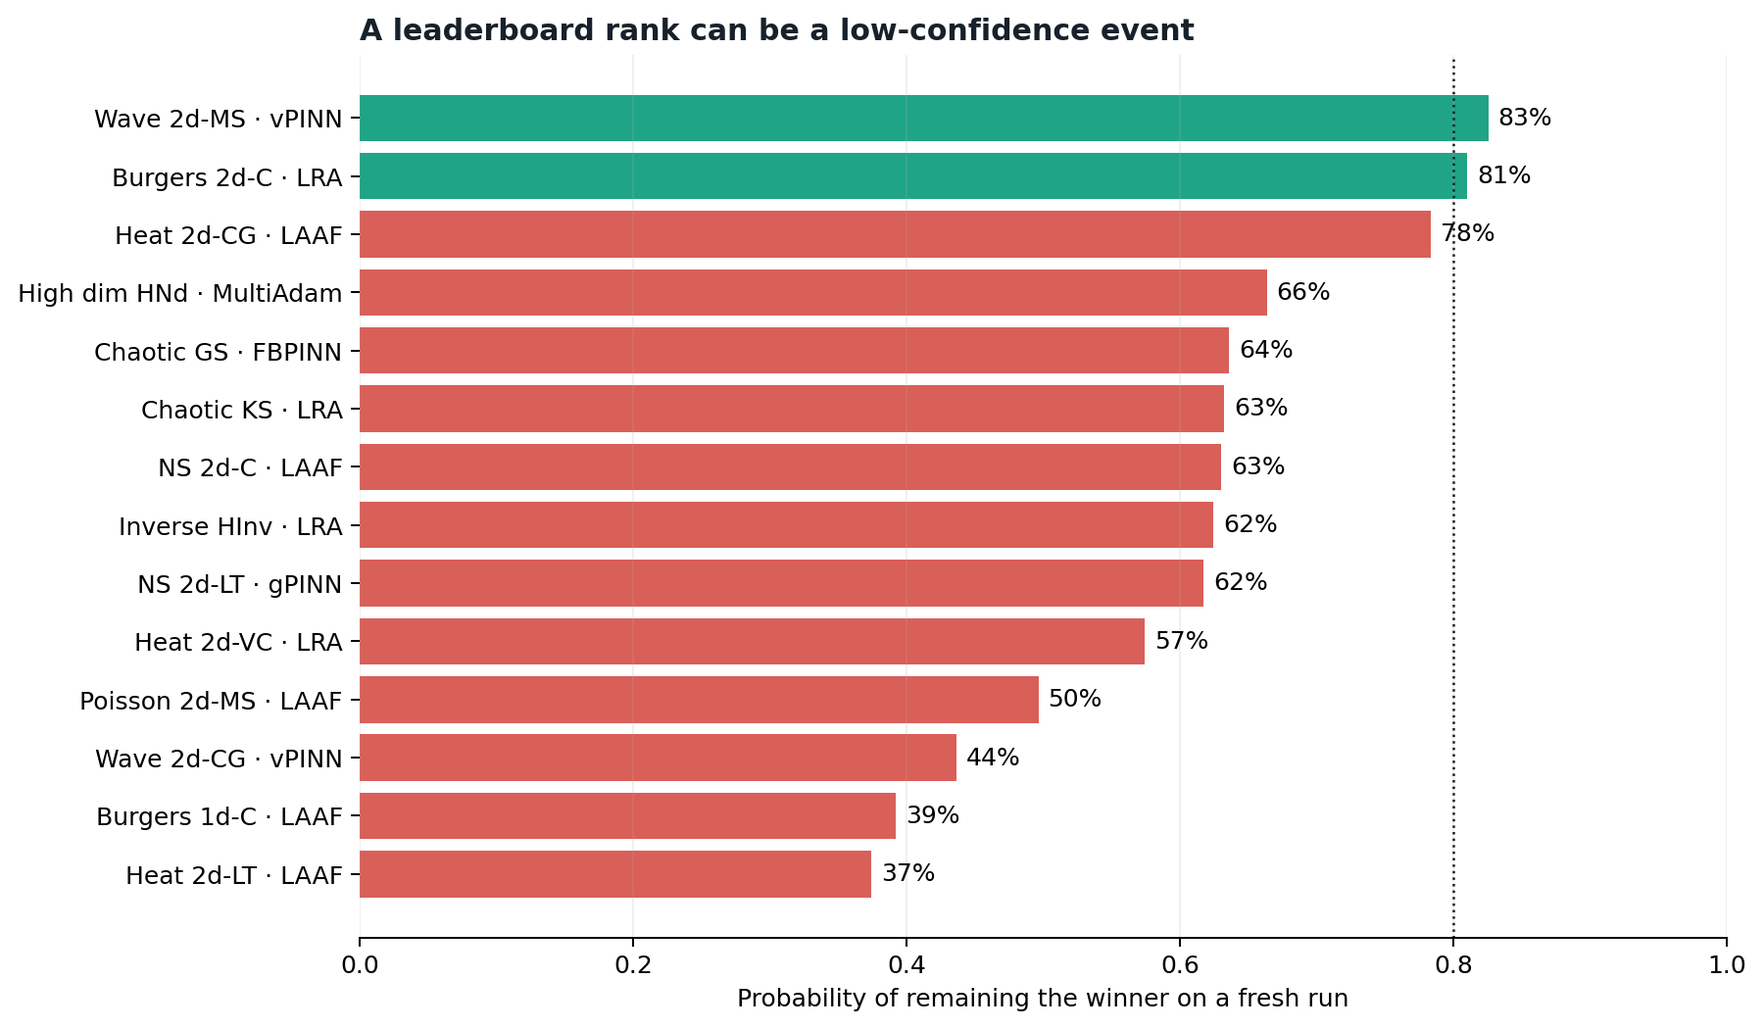
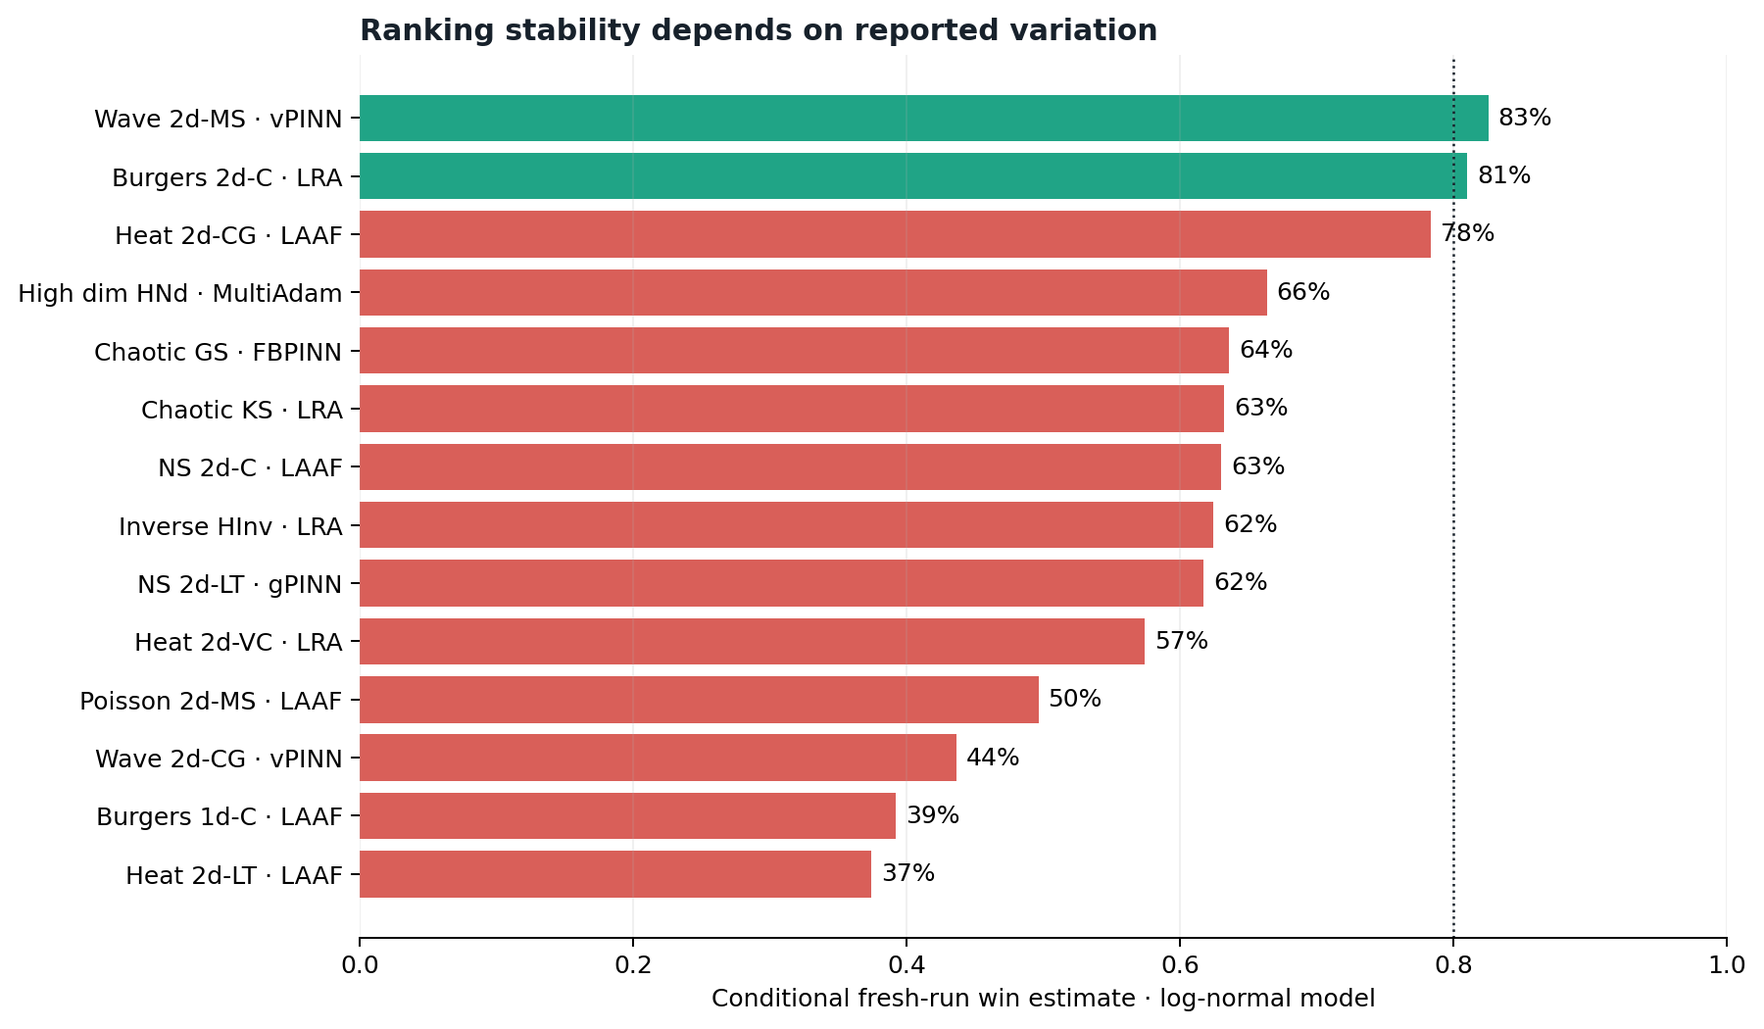
Strengthen statistical claims and robustness checks

Changed region(s): [[0.2178, 0.0, 0.6844, 0.061], [0.4044, 0.9448, 0.7778, 1.0]]

diff --git a/src/pinn_audit/report.py b/src/pinn_audit/report.py
@@ -9,6 +9,7 @@ import pandas as pd
 from .analysis import (
     collocation_switch_summary,
     compare_sources,
+    distribution_sensitivity,
     rank_switch_summary,
     rerun_winner_probabilities,
 )
@@ -18,6 +19,7 @@ def build_report(data: pd.DataFrame, output: Path, collocation: pd.DataFrame | N
     consistency = compare_sources(data)
     conflicts = consistency[~consistency["consistent"]]
     stability = rerun_winner_probabilities(data)
+    assumptions = distribution_sensitivity(data)
     top = stability.groupby(["family", "case"], sort=False).head(1)
     fragile = top[top["winner_probability"] < 0.80]
     switches = rank_switch_summary(data)
@@ -43,25 +45,29 @@ def build_report(data: pd.DataFrame, output: Path, collocation: pd.DataFrame | N
         "## Executive finding",
         "",
         headline,
-        "This discrepancy reverses the HInv winner and directly changes the paper's highlighted inverse-problem conclusion. It is a reporting inconsistency, not evidence that either number is the correct experimental result.",
+        "This discrepancy reverses the HInv winner for that table and changes which result supports the associated comparison. It is a reporting inconsistency, not evidence that either number is the correct experimental result.",
         "",
         "## Audit counts",
         "",
         f"* {len(consistency)} shared L2RE claims compared across main and appendix tables",
         f"* {len(conflicts)} numerical source conflicts above exact transcription tolerance",
-        f"* {len(fragile)} of {len(top)} cases where the most likely fresh-run winner remains below 80% probability",
+        f"* {len(fragile)} of {len(top)} cases where the conditional log-normal estimate for the most likely fresh-run winner remains below the diagnostic 80% threshold",
         f"* {len(switched)} of {len(switches)} cases where the winning method changes across L2RE, L1RE, and maximum error",
         f"* {int(budget_switches['budget_sensitive'].sum()) if not budget_switches.empty else 0} of {len(budget_switches)} collocation ablations where the winning method changes with sampling budget",
         "",
         "## Interpretation",
         "",
-        "A leaderboard winner is not automatically a stable property of a method. The audit separates three failure modes: source inconsistency, run-to-run instability, and metric dependence. These modes support different conclusions and should not be collapsed into one accuracy number.",
+        "A leaderboard winner is not automatically a stable property of a method. The audit separates source inconsistency, conditional rerun stability, and metric dependence. These diagnostics support different conclusions and should not be collapsed into one accuracy number.",
         "",
-        "The rerun analysis uses moment-matched log-normal distributions derived from the reported three-run mean and standard deviation. It is a sensitivity analysis for a fresh run, not a posterior probability and not a substitute for raw seeds.",
+        "The rerun analysis uses moment-matched distributions derived from the reported three-run mean and standard deviation. Its probabilities are conditional simulation estimates, not measured frequencies, posterior probabilities, or substitutes for raw seeds. Independence between methods is assumed because run-level pairing is unavailable.",
+        "",
+        "Across log-normal, nonnegative-normal, and gamma models, the identity of the most likely winner is unchanged in "
+        f"{int(assumptions['winner_consistent_across_models'].sum())} of {len(assumptions)} cases. The estimated winning probability can nevertheless move by as much as "
+        f"{assumptions['probability_range'].max():.1%}, so probability magnitudes should not be read as distribution-free facts.",
         "",
         "## Most fragile fresh-run leaders",
         "",
-        "| PDE case | Most probable method | Fresh-run win probability | Rank entropy |",
+        "| PDE case | Most probable method | Conditional log-normal estimate | Rank entropy |",
         "| --- | --- | ---: | ---: |",
     ]
     for row in top.sort_values("winner_probability").head(8).itertuples():
@@ -70,6 +76,11 @@ def build_report(data: pd.DataFrame, output: Path, collocation: pd.DataFrame | N
         )
     lines.extend(
         [
+            "",
+            "## Distribution-model sensitivity",
+            "",
+        "The full comparison is recorded in `distribution_sensitivity.csv`. These alternative models are robustness checks, not candidates for the true run distribution.",
+        "Maximum-error results are unavailable for some methods. Winner comparisons use the methods reported for each metric and should therefore be read together with coverage differences.",
             "",
             "## Metric-sensitive cases",
             "",

diff --git a/src/pinn_audit/analysis.py b/src/pinn_audit/analysis.py
@@ -76,6 +76,64 @@ def rerun_winner_probabilities(
     )
 
 
+def distribution_sensitivity(
+    data: pd.DataFrame,
+    metric: str = "L2RE",
+    draws: int = 100_000,
+    seed: int = 2026,
+) -> pd.DataFrame:
+    """Compare conditional fresh-run estimates under three moment-matched models.
+
+    The alternatives do not identify the true run distribution. They expose how
+    much the reported probability depends on an untestable distribution choice
+    when only three-run summaries are available.
+    """
+    rng = np.random.default_rng(seed)
+    appendix = data[
+        data["source"].eq("appendix_table")
+        & data["metric"].eq(metric)
+        & data["mean"].gt(0)
+        & data["std"].notna()
+    ]
+    records: list[dict[str, object]] = []
+    for (family, case), group in appendix.groupby(["family", "case"], sort=False):
+        means = group["mean"].to_numpy(float)
+        stds = np.maximum(group["std"].to_numpy(float), means * 1e-12)
+        methods = group["method"].to_numpy(str)
+
+        sigma2 = np.log1p(np.square(stds / means))
+        lognormal = rng.lognormal(
+            (np.log(means) - sigma2 / 2)[:, None],
+            np.sqrt(sigma2)[:, None],
+            size=(len(group), draws),
+        )
+        normal = np.maximum(
+            rng.normal(means[:, None], stds[:, None], size=(len(group), draws)), 0
+        )
+        shapes = np.square(means / stds)
+        scales = np.square(stds) / means
+        gamma = rng.gamma(shapes[:, None], scales[:, None], size=(len(group), draws))
+
+        row: dict[str, object] = {"family": family, "case": case, "metric": metric}
+        probabilities: list[float] = []
+        winners: list[str] = []
+        for label, samples in (
+            ("lognormal", lognormal),
+            ("nonnegative_normal", normal),
+            ("gamma", gamma),
+        ):
+            counts = np.bincount(samples.argmin(axis=0), minlength=len(group)) / draws
+            index = int(counts.argmax())
+            row[f"{label}_winner"] = methods[index]
+            row[f"{label}_probability"] = float(counts[index])
+            winners.append(methods[index])
+            probabilities.append(float(counts[index]))
+        row["winner_consistent_across_models"] = len(set(winners)) == 1
+        row["probability_range"] = max(probabilities) - min(probabilities)
+        records.append(row)
+    return pd.DataFrame.from_records(records).sort_values(["family", "case"])
+
+
 def metric_winners(data: pd.DataFrame) -> pd.DataFrame:
     """Return the reported winner under each available error definition."""
     appendix = data[data["source"].eq("appendix_table")].dropna(subset=["mean"])

diff --git a/tests/test_analysis.py b/tests/test_analysis.py
@@ -1,6 +1,11 @@
 import pandas as pd
 
-from pinn_audit.analysis import compare_sources, rank_switch_summary, rerun_winner_probabilities
+from pinn_audit.analysis import (
+    compare_sources,
+    distribution_sensitivity,
+    rank_switch_summary,
+    rerun_winner_probabilities,
+)
 
 
 def test_source_conflict_is_detected():
@@ -41,3 +46,26 @@ def test_metric_switch_is_detected():
     assert bool(result.iloc[0]["metric_sensitive"])
     assert result.iloc[0]["distinct_winners"] == 2
 
+
+def test_distribution_sensitivity_exposes_model_dependence():
+    data = pd.DataFrame(
+        [
+            {"source": "appendix_table", "metric": "L2RE", "family": "P", "case": "C", "method": "A", "mean": 0.10, "std": 0.04},
+            {"source": "appendix_table", "metric": "L2RE", "family": "P", "case": "C", "method": "B", "mean": 0.13, "std": 0.04},
+        ]
+    )
+    result = distribution_sensitivity(data, draws=30_000)
+    assert result.iloc[0]["winner_consistent_across_models"]
+    assert result.iloc[0]["probability_range"] > 0
+
+
+def test_missing_results_do_not_enter_fresh_run_simulation():
+    data = pd.DataFrame(
+        [
+            {"source": "appendix_table", "metric": "L2RE", "family": "P", "case": "C", "method": "A", "mean": 0.10, "std": 0.01},
+            {"source": "appendix_table", "metric": "L2RE", "family": "P", "case": "C", "method": "B", "mean": None, "std": None},
+        ]
+    )
+    result = rerun_winner_probabilities(data, draws=1_000)
+    assert list(result["method"]) == ["A"]
+    assert result.iloc[0]["winner_probability"] == 1.0

diff --git a/tests/test_case_study.py b/tests/test_case_study.py
@@ -1,0 +1,36 @@
+from pathlib import Path
+
+import pandas as pd
+
+from pinn_audit.analysis import (
+    collocation_switch_summary,
+    compare_sources,
+    distribution_sensitivity,
+    rank_switch_summary,
+    rerun_winner_probabilities,
+)
+
+
+ROOT = Path(__file__).parents[1]
+
+
+def test_versioned_case_study_counts_and_headline_conflict():
+    data = pd.read_csv(ROOT / "data" / "pinnacle_published_metrics.csv")
+    collocation = pd.read_csv(ROOT / "data" / "pinnacle_collocation_ablation.csv")
+    consistency = compare_sources(data)
+    conflicts = consistency[~consistency["consistent"]]
+    stability = rerun_winner_probabilities(data, draws=20_000)
+    leaders = stability.groupby(["family", "case"], sort=False).head(1)
+    switches = rank_switch_summary(data)
+    budgets = collocation_switch_summary(collocation)
+    assumptions = distribution_sensitivity(data, draws=20_000)
+
+    assert len(consistency) == 235
+    assert len(conflicts) == 2
+    hinv = conflicts[(conflicts["case"] == "HInv") & (conflicts["method"] == "vPINN")].iloc[0]
+    assert hinv["main_table"] == 0.0119
+    assert hinv["appendix_table"] == 0.456
+    assert (leaders["winner_probability"] < 0.80).sum() == 12
+    assert switches["metric_sensitive"].sum() == 13
+    assert budgets["budget_sensitive"].sum() == 4
+    assert assumptions["winner_consistent_across_models"].all()

diff --git a/src/pinn_audit/cli.py b/src/pinn_audit/cli.py
@@ -10,6 +10,7 @@ import pandas as pd
 from .analysis import (
     collocation_switch_summary,
     compare_sources,
+    distribution_sensitivity,
     rank_switch_summary,
     rerun_winner_probabilities,
 )
@@ -44,6 +45,9 @@ def main() -> None:
     args.output.mkdir(parents=True, exist_ok=True)
     compare_sources(data).to_csv(args.output / "source_consistency.csv", index=False)
     rerun_winner_probabilities(data).to_csv(args.output / "winner_probabilities.csv", index=False)
+    distribution_sensitivity(data).to_csv(
+        args.output / "distribution_sensitivity.csv", index=False
+    )
     rank_switch_summary(data).to_csv(args.output / "metric_sensitivity.csv", index=False)
     collocation_switch_summary(collocation).to_csv(
         args.output / "collocation_sensitivity.csv", index=False

diff --git a/src/pinn_audit/plots.py b/src/pinn_audit/plots.py
@@ -52,8 +52,8 @@ def plot_winner_stability(data: pd.DataFrame, path: Path) -> None:
     bars = ax.barh(labels, leaders["winner_probability"], color=colors)
     ax.axvline(0.8, color=INK, lw=1, ls=":")
     ax.set_xlim(0, 1)
-    ax.set_xlabel("Probability of remaining the winner on a fresh run")
-    ax.set_title("A leaderboard rank can be a low-confidence event", loc="left", weight="bold", color=INK)
+    ax.set_xlabel("Conditional fresh-run win estimate · log-normal model")
+    ax.set_title("Ranking stability depends on reported variation", loc="left", weight="bold", color=INK)
     ax.bar_label(bars, labels=[f"{p:.0%}" for p in leaders["winner_probability"]], padding=4)
     ax.spines[["top", "right", "left"]].set_visible(False)
     ax.grid(axis="x", alpha=0.18)

diff --git a/docs/METHODOLOGY.md b/docs/METHODOLOGY.md
@@ -16,24 +16,24 @@ Values describing the same method, PDE case, and metric are joined across the ma
 
 ## Layer 2: rerun stability
 
-PINNacle reports means and standard deviations over three runs. Because errors are positive, the audit constructs a moment-matched log-normal distribution for each method and estimates the probability that it would rank first on a fresh run.
+PINNacle reports means and standard deviations over three runs. Because errors are positive, the primary audit constructs a moment-matched log-normal distribution for each method and simulates the probability that it would rank first on a fresh run. It assumes independence between methods because paired run-level results are unavailable.
 
-This quantity is a predictive sensitivity analysis. It is not a Bayesian posterior, and it cannot recover the raw seed distribution. The approximation is deliberately isolated so it can be replaced when per-seed outputs become available.
+This is a conditional predictive sensitivity analysis. It is not a measured frequency, a Bayesian posterior, or a confidence interval, and it cannot recover the raw seed distribution from three summary values. To expose model dependence, the audit repeats the calculation with moment-matched gamma and nonnegative-normal alternatives. Agreement in winner identity is evidence of robustness to these three choices only. The probability range records sensitivity of the magnitude.
 
 ## Layer 3: metric dependence
 
-The reported winner is computed independently under L2 relative error, L1 relative error, and maximum pointwise error. A metric-sensitive case is one in which these definitions select different methods.
+The reported winner is computed independently under L2 relative error, L1 relative error, and maximum pointwise error. A metric-sensitive case is one in which these definitions select different methods. This is not classified as an error: the metrics encode different scientific priorities, and maximum-error coverage is not identical for every method.
 
 ## Layer 4: collocation-budget dependence
 
-The published ablation comparing PINN and PINN-LRA is re-ranked at 512, 2048, 8192, and 32768 collocation points. This tests whether a method advantage survives a change in how densely the physical domain is constrained.
+The published ablation comparing PINN and PINN-LRA is re-ranked at 512, 2048, 8192, and 32768 collocation points. This tests whether a method advantage survives a change in how densely the physical domain is constrained. A switch is evidence of budget dependence, not evidence that either method fails.
 
 ## Decision rule
 
 A benchmark claim is flagged when at least one of the following holds:
 
 1. The same reported quantity conflicts across paper sections.
-2. The most probable fresh-run winner has probability below 0.80.
+2. The most probable fresh-run winner has conditional log-normal probability below the diagnostic threshold of 0.80.
 3. The winning method changes under another reported error definition.
 4. The winning method changes with collocation budget.
 
@@ -41,4 +41,4 @@ The thresholds are diagnostic, not universal laws. They make review decisions ex
 
 ## Limits
 
-This audit uses published summary statistics and versioned paper source. It cannot identify the correct value behind a reporting conflict, establish causality, or replace reproduction from raw predictions and per-seed outputs.
+This audit uses published summary statistics and versioned paper source. It cannot identify the correct value behind a reporting conflict, establish causality, estimate correlations between methods, or replace reproduction from raw predictions and per-seed outputs. Its 0.80 threshold is a transparent review convention rather than a universal scientific standard.

diff --git a/results/AUDIT_REPORT.md b/results/AUDIT_REPORT.md
@@ -3,25 +3,27 @@
 ## Executive finding
 
 The reported HInv vPINN L2RE is 0.0119 in the main table and 0.456 in the detailed appendix, a 38.3× difference.
-This discrepancy reverses the HInv winner and directly changes the paper's highlighted inverse-problem conclusion. It is a reporting inconsistency, not evidence that either number is the correct experimental result.
+This discrepancy reverses the HInv winner for that table and changes which result supports the associated comparison. It is a reporting inconsistency, not evidence that either number is the correct experimental result.
 
 ## Audit counts
 
 * 235 shared L2RE claims compared across main and appendix tables
 * 2 numerical source conflicts above exact transcription tolerance
-* 12 of 22 cases where the most likely fresh-run winner remains below 80% probability
+* 12 of 22 cases where the conditional log-normal estimate for the most likely fresh-run winner remains below the diagnostic 80% threshold
 * 13 of 22 cases where the winning method changes across L2RE, L1RE, and maximum error
 * 4 of 4 collocation ablations where the winning method changes with sampling budget
 
 ## Interpretation
 
-A leaderboard winner is not automatically a stable property of a method. The audit separates three failure modes: source inconsistency, run-to-run instability, and metric dependence. These modes support different conclusions and should not be collapsed into one accuracy number.
+A leaderboard winner is not automatically a stable property of a method. The audit separates source inconsistency, conditional rerun stability, and metric dependence. These diagnostics support different conclusions and should not be collapsed into one accuracy number.
 
-The rerun analysis uses moment-matched log-normal distributions derived from the reported three-run mean and standard deviation. It is a sensitivity analysis for a fresh run, not a posterior probability and not a substitute for raw seeds.
+The rerun analysis uses moment-matched distributions derived from the reported three-run mean and standard deviation. Its probabilities are conditional simulation estimates, not measured frequencies, posterior probabilities, or substitutes for raw seeds. Independence between methods is assumed because run-level pairing is unavailable.
+
+Across log-normal, nonnegative-normal, and gamma models, the identity of the most likely winner is unchanged in 22 of 22 cases. The estimated winning probability can nevertheless move by as much as 21.0%, so probability magnitudes should not be read as distribution-free facts.
 
 ## Most fragile fresh-run leaders
 
-| PDE case | Most probable method | Fresh-run win probability | Rank entropy |
+| PDE case | Most probable method | Conditional log-normal estimate | Rank entropy |
 | --- | --- | ---: | ---: |
 | Heat 2d-LT | LAAF | 37.4% | 0.65 |
 | Burgers 1d-C | LAAF | 39.2% | 0.58 |
@@ -31,6 +33,11 @@ The rerun analysis uses moment-matched log-normal distributions derived from the
 | NS 2d-LT | gPINN | 61.7% | 0.40 |
 | Inverse HInv | LRA | 62.5% | 0.29 |
 | NS 2d-C | LAAF | 63.0% | 0.29 |
+
+## Distribution-model sensitivity
+
+The full comparison is recorded in `distribution_sensitivity.csv`. These alternative models are robustness checks, not candidates for the true run distribution.
+Maximum-error results are unavailable for some methods. Winner comparisons use the methods reported for each metric and should therefore be read together with coverage differences.
 
 ## Metric-sensitive cases
 

diff --git a/README.md b/README.md
@@ -15,12 +15,12 @@ The first case study examines the published results of [PINNacle](https://arxiv.
 The audit asks three questions:
 
 1. Are identical claims numerically consistent across the main paper and appendix?
-2. How likely is the reported winner to remain the winner on a fresh stochastic run?
+2. Under explicit distribution assumptions, how stable is the reported ranking on a simulated fresh run?
 3. Does the winner survive a change from global relative error to worst-case error?
 
 ## Headline result
 
-The audit finds that the HInv vPINN L2 relative error is reported as **0.0119** in the main table and **0.456** in the detailed appendix. The 38.3× discrepancy reverses the winning method and changes a conclusion highlighted in the paper's discussion.
+The audit finds that the HInv vPINN L2 relative error is reported as **0.0119** in the main table and **0.456** in the detailed appendix. The 38.3× discrepancy reverses the winning method for that case and changes which result supports the associated comparison.
 
 This is a reporting inconsistency, not evidence that either value is correct. Resolving it requires raw per-seed outputs or author confirmation.
 
@@ -28,9 +28,10 @@ Across the full audit:
 
 * 235 shared L2RE claims are checked across the two source tables
 * 2 numerical conflicts are found
-* 12 of 22 reported winners have less than 80% estimated probability of winning a fresh run
+* 12 of 22 cases fall below a diagnostic 80% conditional ranking-stability threshold under the log-normal model
 * 13 of 22 PDE cases select different winners when the error definition changes
 * all 4 published collocation ablations change winners as the sampling budget changes
+* the most likely winner is unchanged across three distribution models in all 22 cases, while probability magnitudes move by as much as 21 percentage points
 
 ![Main table and appendix conflicts](results/source_conflicts.png)
 
@@ -62,7 +63,9 @@ pinn-audit --extract
 
 `source_consistency.csv` records every comparable main-text and appendix claim.
 
-`winner_probabilities.csv` estimates fresh-run ranking stability from reported three-run summaries.
+`winner_probabilities.csv` reports conditional log-normal fresh-run simulations from published three-run summaries.
+
+`distribution_sensitivity.csv` shows how those estimates change under log-normal, nonnegative-normal, and gamma assumptions.
 
 `metric_sensitivity.csv` shows whether the winner changes across L2RE, L1RE, and maximum error.
 
@@ -70,7 +73,7 @@ The figures are generated from the same tabular outputs used in the report.
 
 ## Why this is not another leaderboard
 
-The unit of analysis is the inference from result to claim, not only the model score. A lower mean error can coexist with an unstable rank. A global metric can hide a poor worst-case region. A polished main table can disagree with its detailed evidence.
+The unit of analysis is the inference from result to claim, not only the model score. A lower mean error can coexist with an assumption-sensitive rank. A global metric can hide a poor worst-case region. A polished main table can disagree with its detailed evidence.
 
 The framework therefore keeps three layers separate:
 
